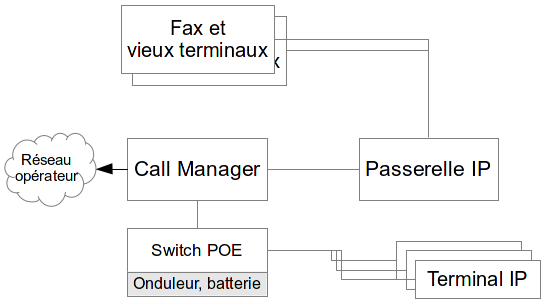
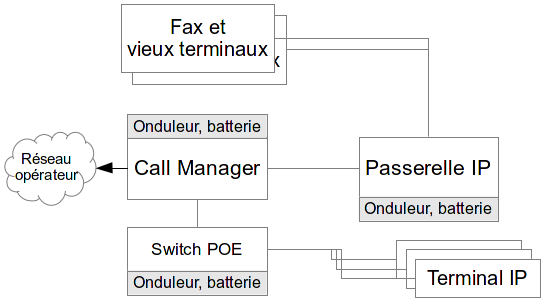
maj archi : alimentation de secours détaillée

diff --git a/ArchiTech/Materiel.tex b/ArchiTech/Materiel.tex
@@ -15,6 +15,12 @@ du réseau ToIP sur le campus de l'INSA.
   l'interopérabilité du matériel et donne une bonne garantie sur sa pérennité.
 \end{description}
 
+\subsection{PABX}
+
+\paragraph{} Le \ac{PABX} existant sera conservé lors de la phase de transition.
+Nous veillerons à optimiser sa charge et nous assurer que les systèmes
+d'alimentation de secours en place sont toujours pleinement opérationnels.
+
 \subsection{Serveur}
 
 \paragraph{} Nous optons pour un serveur garantissant une très haute
@@ -26,7 +32,18 @@ la connexion vers le réseau \ac{RNIS} ou analogique, telles que celles proposé
 par la branche Hardware de la société Asterisk. Les cartes de la série Hx8 sont
 des cartes hybrides disposant d'interfaces analogiques et numériques.
 
+\paragraph{} Comme tout serveur critique, celui-ci est rattaché à un onduleur et
+une alimentation de secours.
+
 \paragraph{} Nous estimons le coût d'achat d'un tel serveur à 5000 \euro HT.
+
+\subsection{Équipements coeur de réseau}
+
+\paragraph{} Le matériel déployé au coeur du réseau sera généralement de la même
+nature que celui déployé pour le reste du réseau IP du campus. D'une manière
+générale, l'étude du matériel existant ou prévu à l'achat doit être reconsidéré
+en tenant compte du surplus de trafic engendré par les postes de téléphonies par
+IP envisagés dans le cadre de l'architecture cible.
 
 \subsection{Switch POE}
 
@@ -54,3 +71,6 @@ des terminaux du marchés sont compatibles avec une telle technologie.
 \paragraph{} Les téléphones doivent aussi être en mesure de raccorder un
 ordinateur en "bout de ligne" pour éviter de devoir réinstaller des prises RJ45
 dans les locaux.
+
+\paragraph{} Les téléphones sont alimentés grâce à la téchnologie \ac{POE} et ne
+nécessitent pas d'attention particulière pour garantir leur bon fonctionnement.
